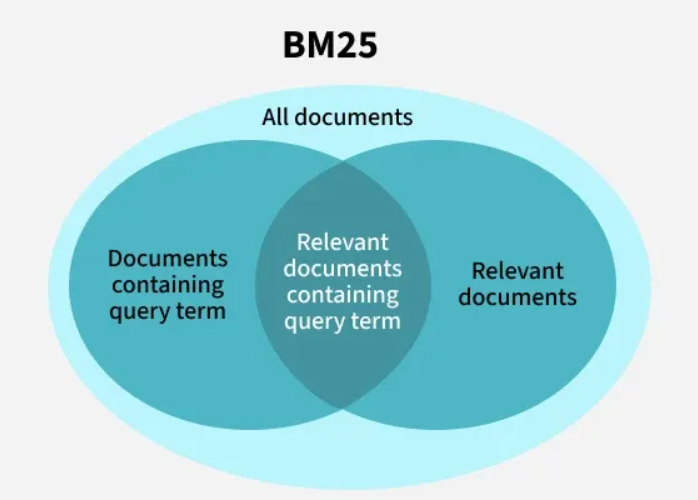
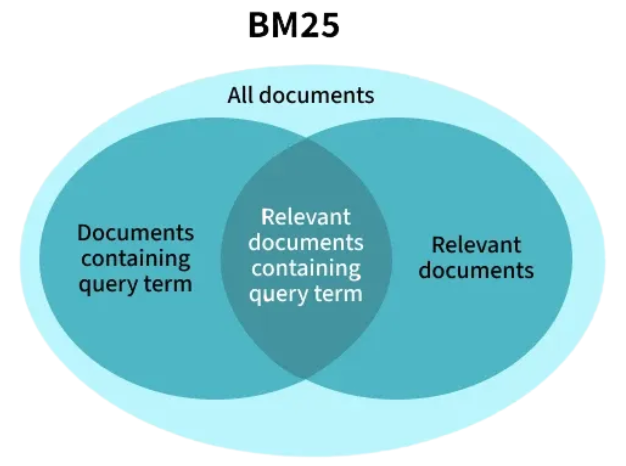
Near final fix for Phase 1

diff --git a/Report/_heading/05_our_approach.tex b/Report/_heading/05_our_approach.tex
@@ -234,7 +234,7 @@ RAG is chosen because it offers the optimal balance of accuracy, cost-efficiency
     \item \textbf{GPU}: NVIDIA GPU with at least 4GB of VRAM, but when using 8GB VRAM, we recommend (RTX 4060, RTX 4070, or equivalent) for efficient embedding generation and inference. For larger models or batch processing, 16GB+ VRAM is recommended.
     \item \textbf{CPU}: Multi-core processor (8+ cores) to support parallel processing of documents and concurrent API requests.
     \item \textbf{Memory (RAM)}: Minimum 16GB of system RAM for running the entire pipeline, including model caching and document processing.
-    \item \textbf{Storage}: At least 100GB of available disk space for storing document artifacts, indices, and model weights.
+    % \item \textbf{Storage}: At least 100GB of available disk space for storing document artifacts, indices, and model weights.
 \end{itemize}
 
 \subsection{Software Dependencies}
@@ -261,11 +261,23 @@ RAG is chosen because it offers the optimal balance of accuracy, cost-efficiency
 
 \subsection{System Architecture Constraints}
 
+\textbf{Advantages:}
 \begin{itemize}
     \item \textbf{Data Privacy}: All document artifacts are stored locally on the file system. No external cloud services are required for document storage, ensuring complete data privacy and compliance with institutional policies.
     \item \textbf{Concurrency}: The system is designed to handle multiple concurrent API requests using FastAPI's asynchronous architecture, supporting up to $N$ simultaneous users (where $N$ is bounded by available memory and GPU scheduling).
     \item \textbf{Scalability}: The modular pipeline design allows for independent scaling of retrieval and generation components. Additional indexing nodes can be added for large document corpora without modifying the core system.
     \item \textbf{Portability}: The entire system can be containerized using Docker, enabling seamless deployment across different environments (development, staging, production).
+\end{itemize}
+
+\textbf{Limitations:}
+\begin{itemize}
+    \item \textbf{Single-GPU Dependency}: The current architecture does not support distributed GPU processing. Visual embedding generation (ColQwen) and inference are constrained to a single GPU, creating a bottleneck for large-scale batch processing.
+    \item \textbf{Index Rebuilding Overhead}: Document updates require full index regeneration. The system does not support incremental indexing, meaning that adding or modifying a single document necessitates reprocessing the entire corpus for that index type.
+    \item \textbf{Memory Scalability}: Both BM25 and FAISS indices are loaded entirely into RAM during retrieval. For corpora exceeding 1 million documents, memory consumption can surpass 32GB, limiting deployment on consumer-grade hardware.
+    \item \textbf{Storage Redundancy}: The dual-pathway architecture stores multiple representations of the same document (original PDF, rasterized images, Markdown, embeddings), resulting in storage overhead of approximately $5\times$ the original document size.
+    \item \textbf{Processing Latency}: Document ingestion is synchronous and blocking. A single complex PDF (e.g., 100 pages with tables and images) can take 2-5 minutes to process through the full pipeline, during which no other documents can be processed concurrently.
+    \item \textbf{Model Size Constraints}: The system's embedding and reranking models are fixed at deployment time. Switching to larger models (e.g., upgrading from MiniLM to BGE-Large for embedding) requires reindexing the entire corpus.
+    \item \textbf{Limited Multi-Tenancy}: The file-system-based storage architecture lacks built-in isolation mechanisms. Deploying the system for multiple independent clients requires separate instances or manual namespace management.
 \end{itemize}
 
 \section{Main Architecture}
@@ -276,7 +288,7 @@ This section presents the comprehensive architecture of the MRAG system. We stru
 
 The system implements a sophisticated dual-pipeline architecture designed to handle heterogeneous document formats and produce RAG-ready outputs for both text-based and image-based retrieval. The architecture is divided into two primary pipelines: the Data Processing Pipeline and the Embedding-Indexing Pipeline.
 
-\subsubsection{Data Processing Pipeline}
+\textbf{Data Processing Pipeline}
 
 \begin{figure}[h!]
     \centering
@@ -293,6 +305,8 @@ The normalization stage converts heterogeneous input formats into two canonical 
 
 \begin{table}[H]
 \centering
+\caption{Stage 1 normalization mapping for different input formats.}
+\label{tab:normalization}
 \resizebox{\textwidth}{!}{%
 \begin{tabular}{@{}llll@{}}
 \toprule
@@ -306,8 +320,6 @@ PDF & Copy as-is & Yes (original) & --- (processed in Stage 3) \\
 Markdown & Copy as-is & --- & Yes (original) \\ \bottomrule
 \end{tabular}%
 }
-\caption{Stage 1 normalization mapping for different input formats.}
-\label{tab:normalization}
 \end{table}
 
 \textbf{Stage 2: Media Processing}
@@ -316,6 +328,8 @@ For multimedia inputs (video and audio), Stage 2 extracts temporal information a
 
 \begin{table}[H]
 \centering
+\caption{Stage 2 media processing transformation mapping.}
+\label{tab:media_processing}
 \resizebox{\textwidth}{!}{%
 \begin{tabular}{@{}llll@{}}
 \toprule
@@ -326,8 +340,6 @@ Audio (WAV, MP3) & OpenAI Whisper & — & Markdown transcript \\
  & & & Timestamped subtitles (SRT/VTT) \\ \bottomrule
 \end{tabular}%
 }
-\caption{Stage 2 media processing transformation mapping.}
-\label{tab:media_processing}
 \end{table}
 
 The transcription process utilizes \textbf{OpenAI Whisper}, a state-of-the-art ASR system. Whisper processes audio waveforms and generates timestamped transcripts, which are immediately serialized to Markdown format for consistency with other document types.
@@ -338,6 +350,8 @@ The final stage employs \textbf{Docling}, a specialized document understanding f
 
 \begin{table}[H]
 \centering
+\caption{Stage 3 document processing with Docling outputs.}
+\label{tab:docling_processing}
 \resizebox{\textwidth}{!}{%
 \begin{tabular}{@{}lllll@{}}
 \toprule
@@ -350,13 +364,11 @@ Images & OCR + VLM description & Yes (captions) & Yes (original) & --- \\
 HTML & DOM parsing & Yes & Yes (embedded) & Yes \\ \bottomrule
 \end{tabular}%
 }
-\caption{Stage 3 document processing with Docling outputs.}
-\label{tab:docling_processing}
 \end{table}
 
 Docling integrates multiple vision backends (OCR engines: RapidOCR, Tesseract, EasyOCR; Vision-Language Models for semantic understanding) to ensure high-fidelity content extraction from both born-digital and scanned documents.
 
-\subsubsection{Embedding-Indexing Pipeline}
+\textbf{Embedding-Indexing Pipeline}
 
 \begin{figure}[h!]
     \centering
@@ -388,6 +400,8 @@ The text pathway processes structured Markdown files generated from Stage 3. The
 
 \begin{table}[H]
 \centering
+\caption{Text embedding and indexing pipeline stages.}
+\label{tab:text_indexing}
 \resizebox{\textwidth}{!}{%
 \begin{tabular}{@{}llllll@{}}
 \toprule
@@ -399,8 +413,6 @@ Dense Index & Vector embeddings & FAISS IndexFlatIP & Vector store & .bin file &
 Hybrid Index & BM25 + Dense & RRF fusion & Unified scores & JSON & Hybrid \\ \bottomrule
 \end{tabular}%
 }
-\caption{Text embedding and indexing pipeline stages.}
-\label{tab:text_indexing}
 \end{table}
 
 \textbf{Visual Embedding Pathway}
@@ -527,7 +539,7 @@ Several design choices distinguish this architecture from traditional RAG system
 
 Having established the pipeline workflows and high-level system design, this subsection provides comprehensive descriptions of all components that constitute the MRAG system. We organize the discussion across three operational layers: Input Processing, Dual-Stream Indexing, and Generative Synthesis.
 
-\subsubsection{Input Processing Layer}
+\textbf{Input Processing Layer}
 
 The first stage of the pipeline is responsible for normalizing diverse raw file formats into a standardized set of artifacts. This layer utilizes specific open-source tools for each data modality, as illustrated in Figure \ref{fig:normalization}.
 
@@ -630,7 +642,7 @@ The Input Processing Layer produces a unified set of artifacts stored in the \te
     \item \textbf{Extracted Metadata}: JSON sidecars containing file provenance, page counts, and processing timestamps.
 \end{enumerate}
 
-\subsubsection{Dual-Stream Indexing Layer}
+\textbf{Dual-Stream Indexing Layer}
 
 Following normalization, the data is split into two specialized indexing streams to handle the unique requirements of text and images, as illustrated in Figure \ref{fig:chunkemb}.
 
@@ -668,7 +680,7 @@ The PDF output undergoes a visual encoding process:
     \item \textbf{Metadata}: Each entry is tagged with \texttt{source}, \texttt{source\_path}, \texttt{page} number, and \texttt{total\_pages}.
 \end{itemize}
 
-\subsubsection{Advanced Visual Retrieval with ColQwen}
+\textbf{Advanced Visual Retrieval with ColQwen}
 
 The visual indexing stream deserves special attention due to its innovative approach to document retrieval. To overcome the limitations of traditional OCR-based retrieval which often discards the semantic value of document layout, charts, and figures the pipeline integrates \textbf{ColQwen}. This state-of-the-art VLM represents an evolution in retrieval architecture, transitioning from text-only processing to holistic visual understanding.
 
@@ -718,7 +730,7 @@ By adopting ColQwen, the pipeline achieves capabilities that standard text-RAG c
     \item \textbf{Multilingual Agnosticism}: It processes visual glyphs rather than relying on language-specific OCR dictionaries.
 \end{itemize}
 
-\subsubsection{Generative Synthesis Layer}
+\textbf{Generative Synthesis Layer}
 
 The final operational layer orchestrates user interaction and answer generation, as illustrated in Figure \ref{fig:overall_arch}. This layer implements the retrieve-then-generate paradigm central to RAG architectures.
 

diff --git a/Report/_heading/08_plan.tex b/Report/_heading/08_plan.tex
@@ -83,14 +83,13 @@ Phase 1 successfully established a comprehensive foundation for the MRAG system 
     hgrid,
     vgrid,
     x unit=0.9cm,
-    y unit chart=0.7cm,
-    bar height=0.6,
+    y unit chart=0.6cm,
+    bar height=0.5,
     bar label font=\small,
     title label font=\small\bfseries,
+    title height=1,
     progress label text={},
-    bar/.style={fill=gray!20},
-    title/.style={draw=none, fill=none},
-    title label node/.append style={opacity=0, minimum width=0pt, inner sep=0pt}
+    bar/.style={fill=gray!20}
 ]{1}{12}
 
 \gantttitle{Phase 1 Implementation (Weeks)}{12} \\
@@ -178,13 +177,12 @@ The planned work schedule for Phase 2 is structured across eight weeks, encompas
     hgrid,
     vgrid,
     x unit=0.85cm,
-    y unit chart=0.7cm,
-    bar height=0.6,
+    y unit chart=0.6cm,
+    bar height=0.5,
     bar label font=\small,
     title label font=\small\bfseries,
-    bar/.style={fill=gray!20},
-    title/.style={draw=none, fill=none},
-    title label node/.append style={opacity=0, minimum width=0pt, inner sep=0pt}
+    title height=1,
+    bar/.style={fill=gray!20}
 ]{13}{25}
 
 \gantttitle{Phase 2 Scaling \& Defense (Weeks)}{13} \\

diff --git a/Report/main.tex b/Report/main.tex
@@ -146,16 +146,20 @@
     ([xshift=-1cm,yshift=1cm]current page.south east);
 \end{tikzpicture}
 
-\begin{center}
+\noindent\hspace{-0.4cm}
+\begin{minipage}{\textwidth}
+\centering
 VIETNAM NATIONAL UNIVERSITY \\
 HO CHI MINH CITY UNIVERSITY OF TECHNOLOGY \\
 FACULTY OF COMPUTER SCIENCE AND ENGINEERING
-\end{center}
+\end{minipage}
 
 \begin{figure}[h!]
-\begin{center}
+\noindent\hspace{-0.4cm}
+\begin{minipage}{\textwidth}
+\centering
 \includegraphics[width=4cm]{hcmut.png}
-\end{center}
+\end{minipage}
 \end{figure}
 
 \noindent\hspace*{-0.65cm}
@@ -165,12 +169,12 @@ FACULTY OF COMPUTER SCIENCE AND ENGINEERING
 \hspace*{-0.3cm}\textbf{{\Large REPORT}}\\[6pt]
 \textbf{{\Large SPECIALIZED PROJECT (CO4029)}}\\[0.5cm]
 \hline
-\\[0.5cm]
+\\[0.4cm]
 \textbf{{\LARGE BK-MIND: A MULTIMODAL}}\\[4pt]
 \textbf{{\LARGE DATA UNDERSTANDING SYSTEM}}\\[4pt]
-\textbf{{\LARGE FOR HCMUT LECTURES}}\\[0.3cm]
+\textbf{{\LARGE FOR HCMUT LECTURES}}\\[0.5cm]
 \hline
-\\[0.3cm]
+\\[0.4cm]
 \textbf{{MAJOR: COMPUTER SCIENCE}}\\[0.3cm]
 \end{tabular}
 \end{minipage}

diff --git a/Report/_heading/02_introduction.tex b/Report/_heading/02_introduction.tex
@@ -77,8 +77,8 @@ Addressing these challenges through careful integration of established technique
 The remainder of this report is organized as follows:
 
 \begin{itemize}
-    \item \textbf{Declaration of Authorship} – Confirms that the work presented in this report is original and completed by the authors.
-    \item \textbf{Abstract} – Summarizes the motivation, objectives, and contributions of the project in a concise form.
+    % \item \textbf{Declaration of Authorship} – Confirms that the work presented in this report is original and completed by the authors.
+    % \item \textbf{Abstract} – Summarizes the motivation, objectives, and contributions of the project in a concise form.
     \item \textbf{Chapter 1: Introduction} – Provides background, motivations, objectives, scope, challenges and solutions, and the structure of the report.
     \item \textbf{Chapter 2: Preliminaries} – Presents foundational knowledge, key theories, and tools relevant to multimodal retrieval and LLMs.
     \item \textbf{Chapter 3: Related Work} – Reviews existing literature and prior systems related to MRAG, OCR, ASR, and visual-language integration.